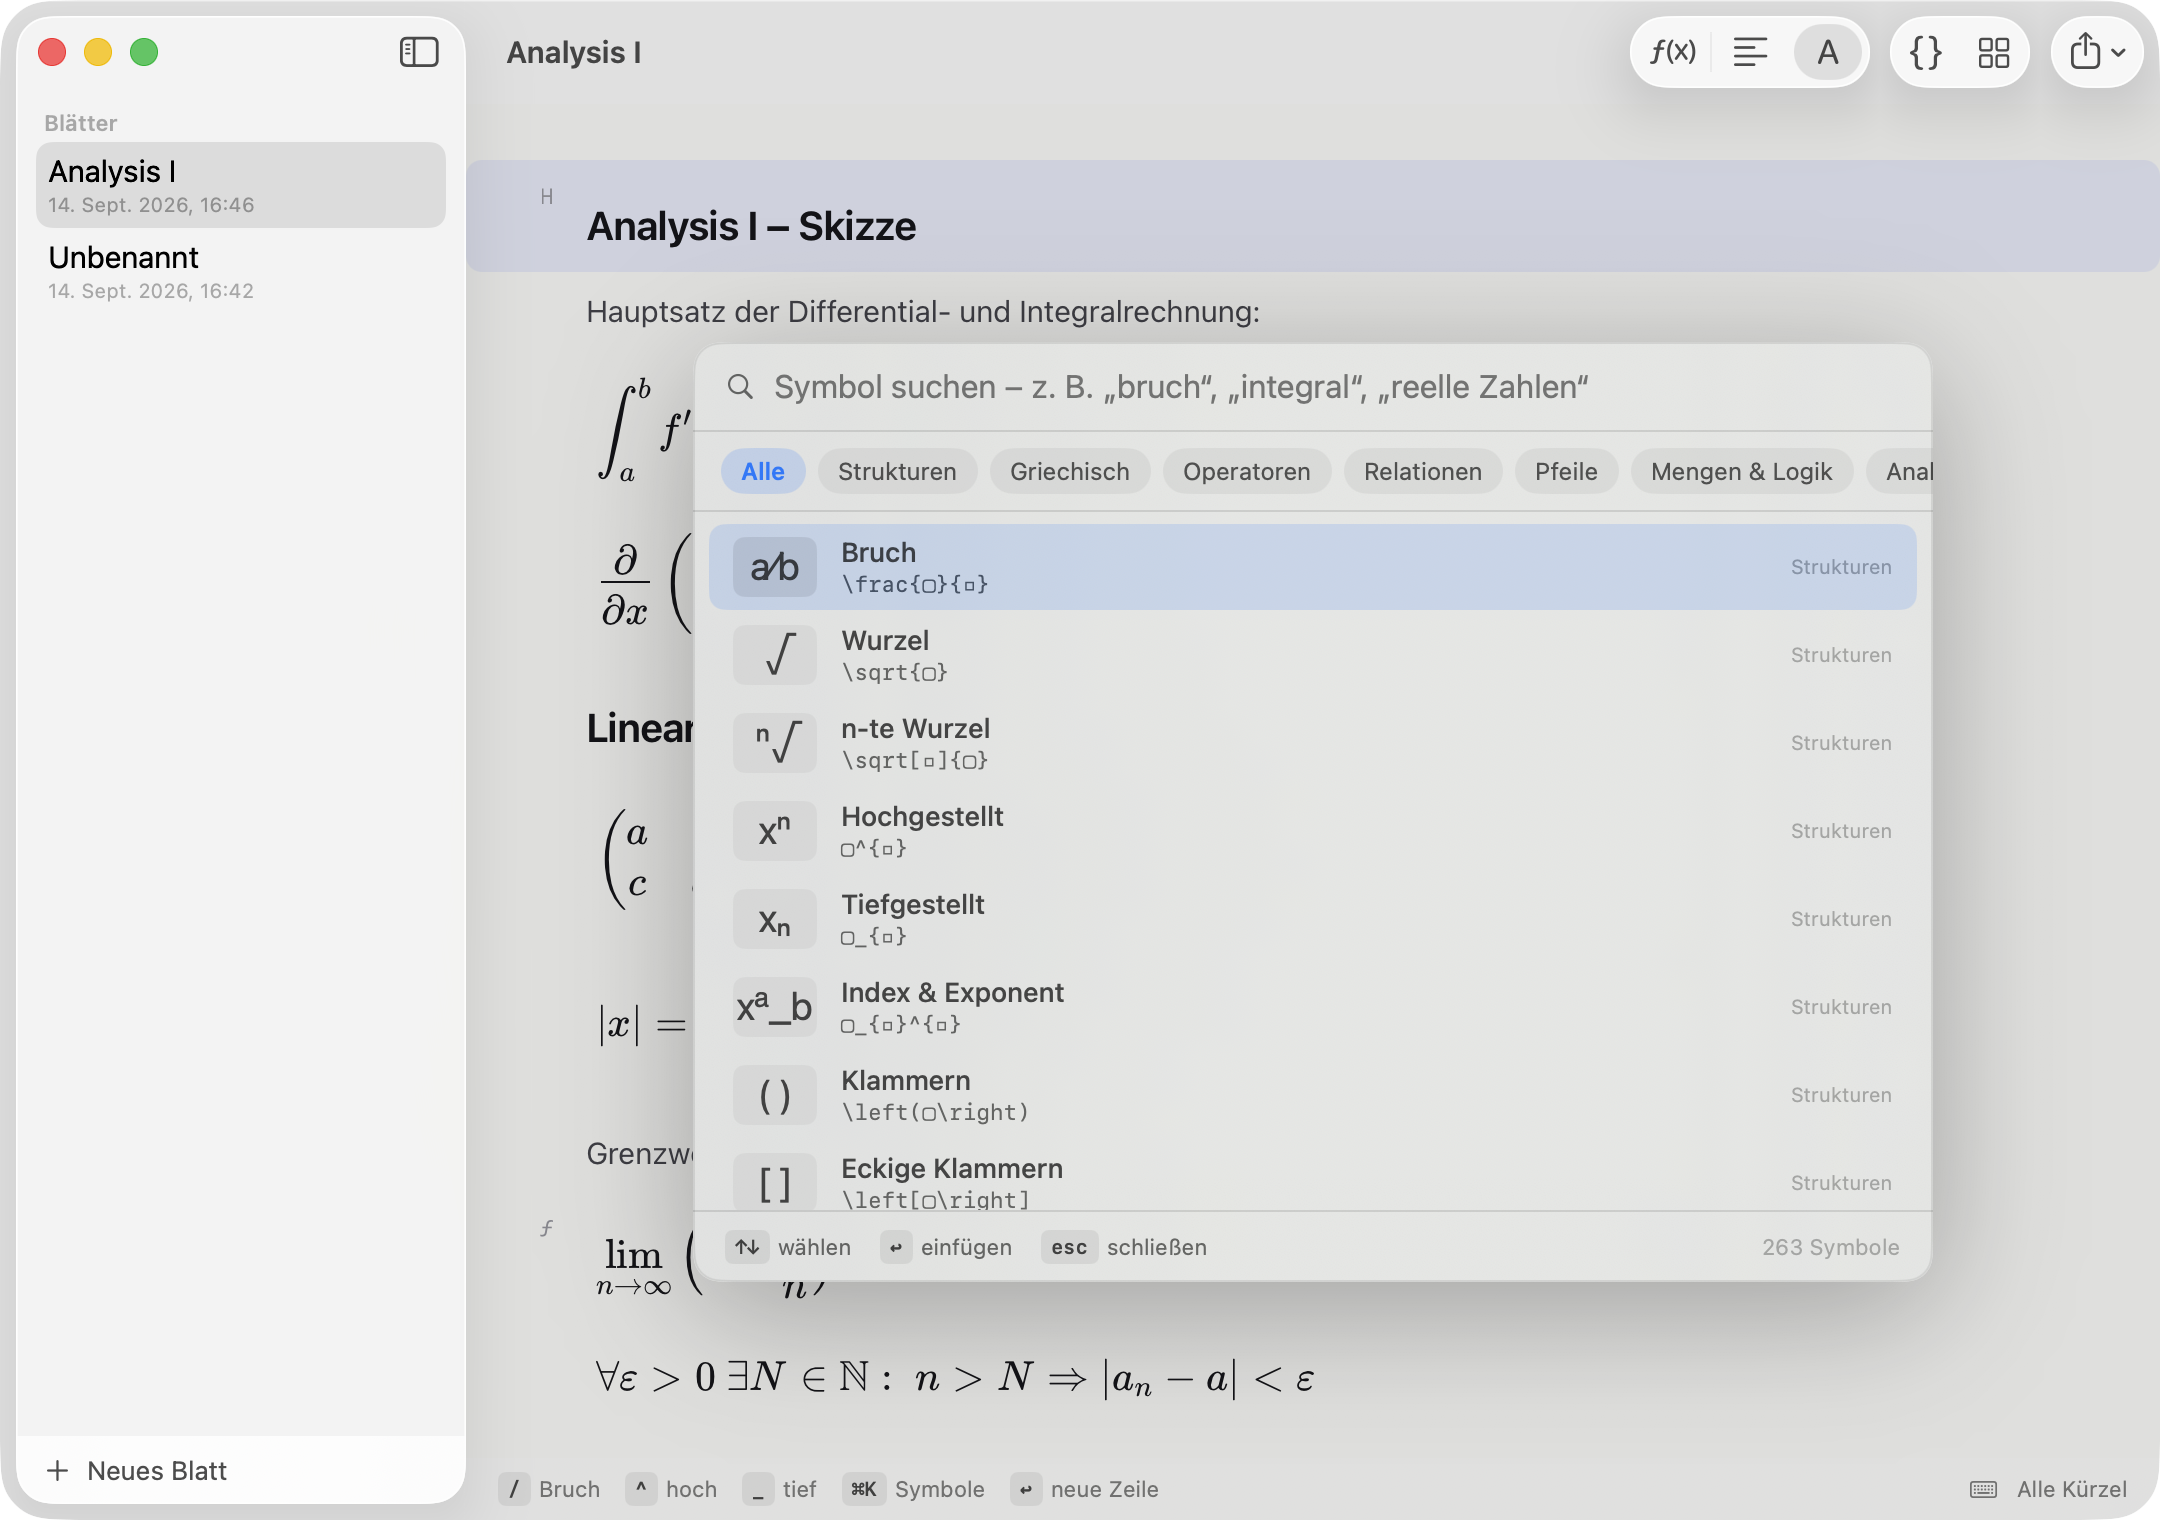
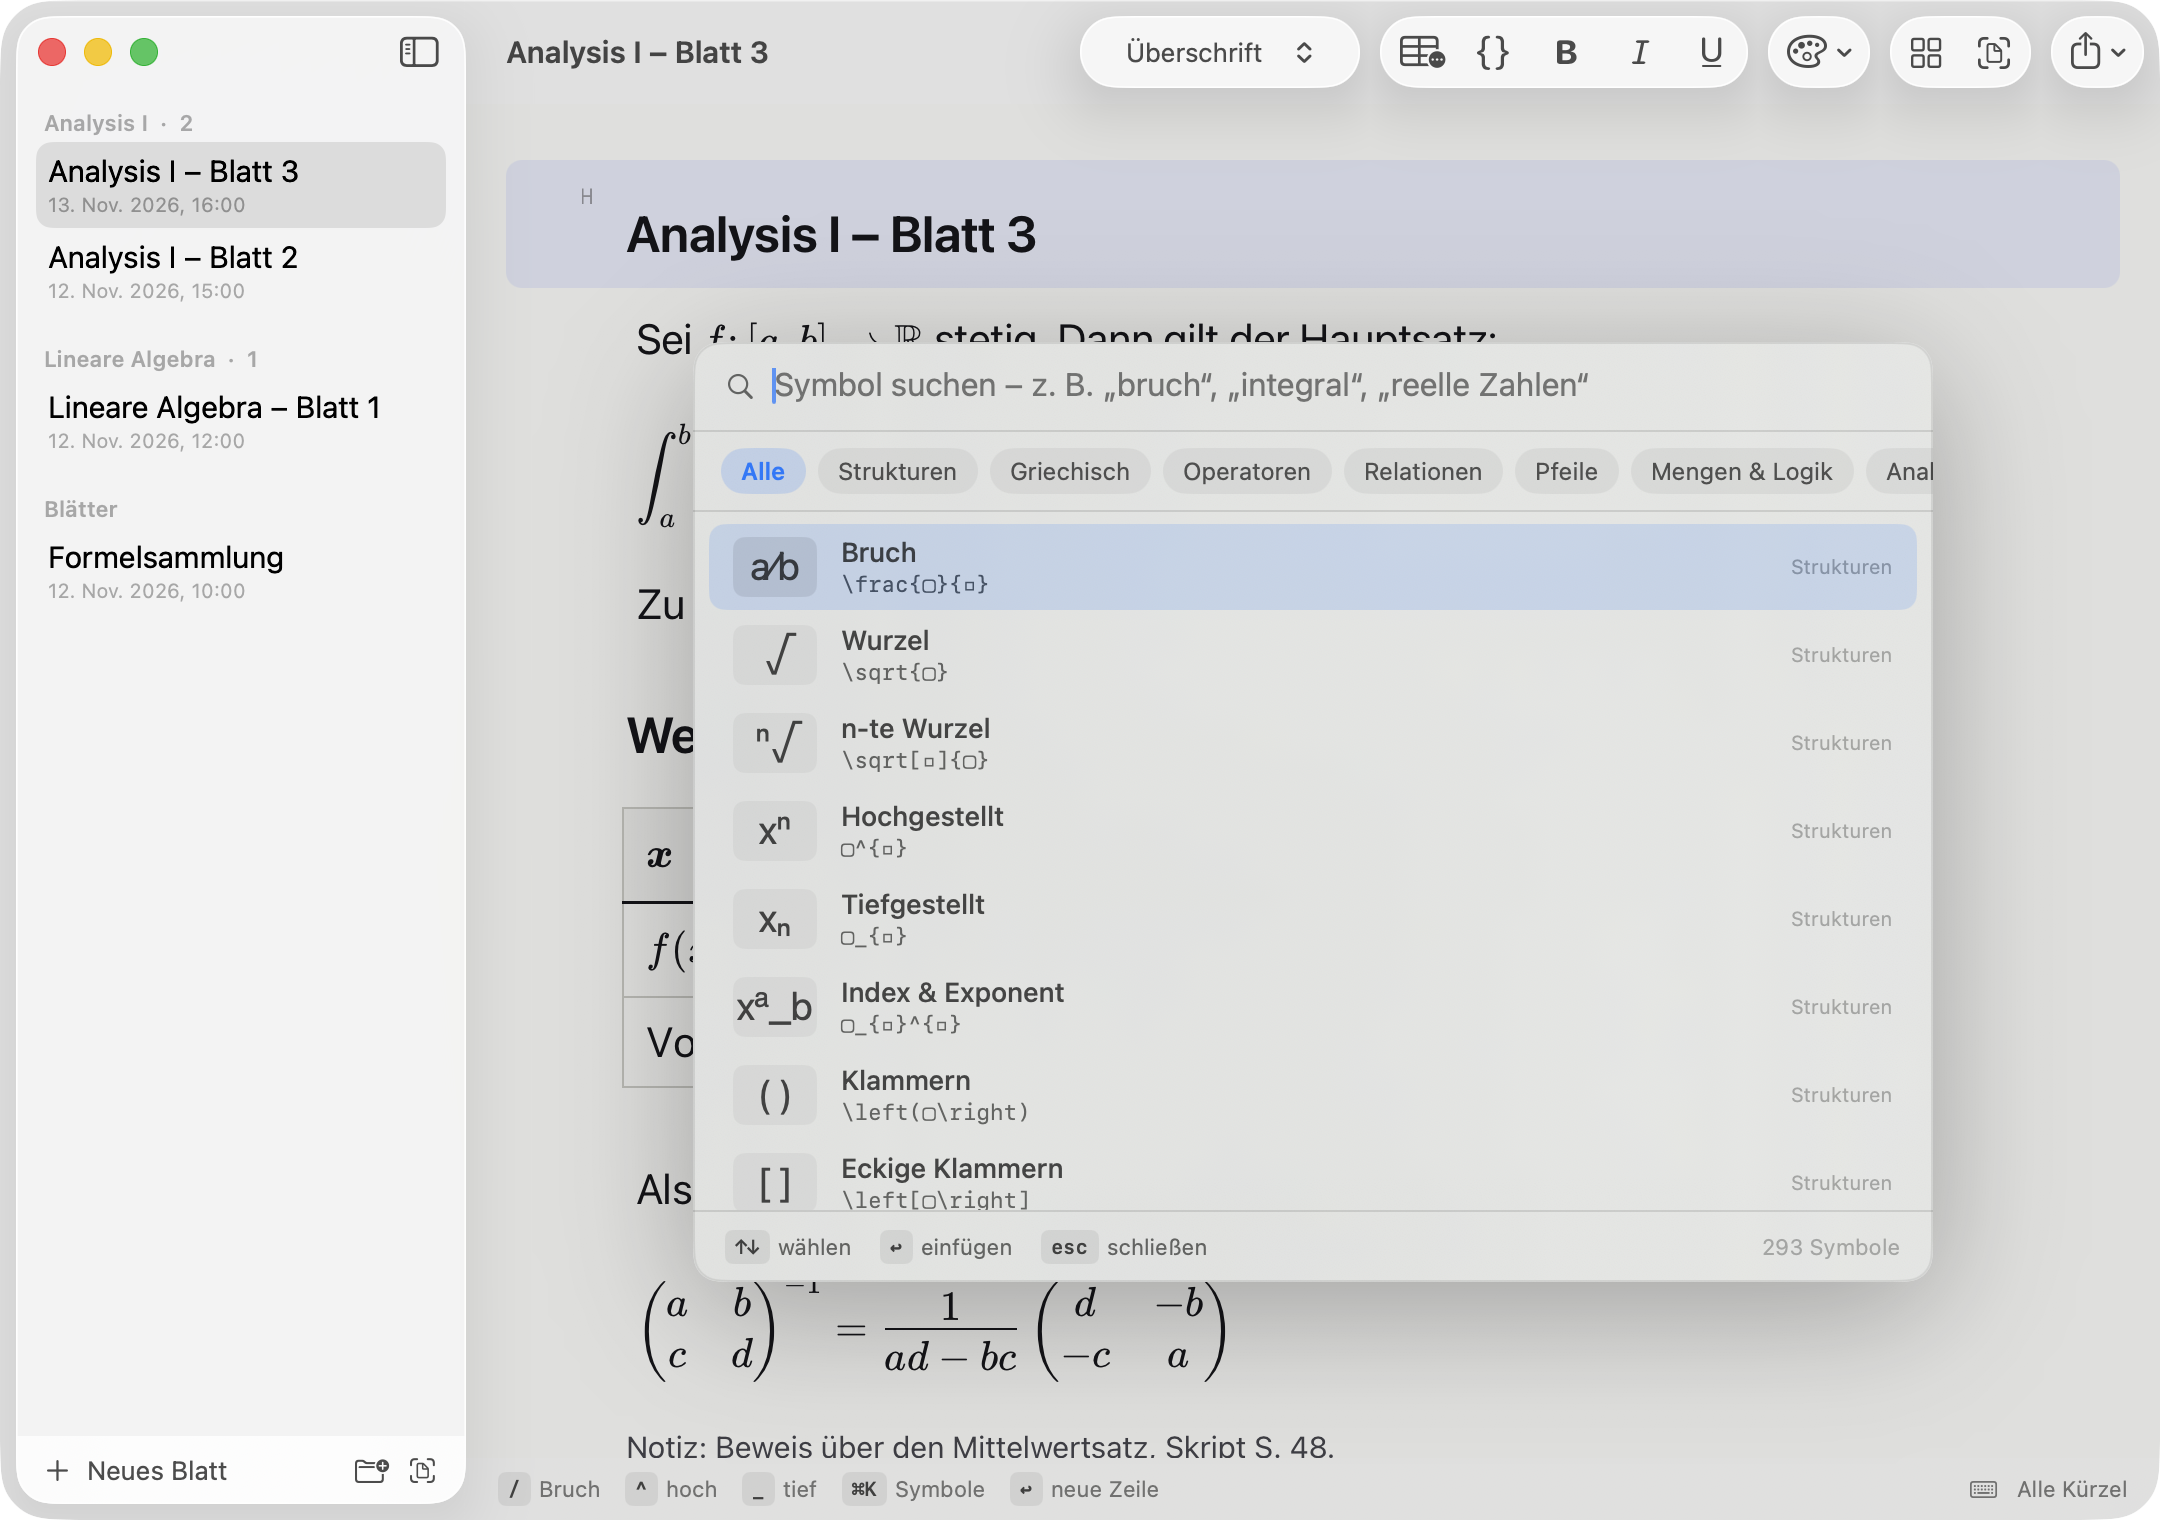
README: neue Screenshots und Stand nachgezogen
Screenshots zeigen jetzt Tabellen, die aktuelle Werkzeugleiste und den
A4-PDF-Export; Zeilenarten auf fünf plus Tabelle korrigiert und die
Module unter Resources/web beschrieben.

diff --git a/README.md b/README.md
@@ -6,6 +6,8 @@ Ein Mac-Notizblock für Mathematik. Du tippst, es steht sofort gesetzt da.
 
 ![Symbolpalette mit ⌘K](docs/palette.png)
 
+![Dasselbe Blatt als PDF auf A4](docs/pdf.png)
+
 ## Die Idee
 
 Formeln schreibt man am schnellsten mit der Tastatur – aber Mathematik ist
@@ -26,7 +28,7 @@ Drei Ebenen, je nachdem wie genau du es wissen willst:
 
 ## Zeilenarten
 
-Ein Blatt ist eine Liste von Zeilen, `↩` macht die nächste. Vier Arten, umschaltbar
+Ein Blatt ist eine Liste von Zeilen, `↩` macht die nächste. Fünf Arten, umschaltbar
 mit `⌥⌘1` bis `⌥⌘5`:
 
 | Art | Wofür |
@@ -36,6 +38,9 @@ mit `⌥⌘1` bis `⌥⌘5`:
 | **Text** | Fließtext in Formelgröße — der Normalfall für Aufgabentexte |
 | **Notiz** | Kleinere Anmerkung am Rand des Gedankengangs |
 | **Überschrift** | Aufgabennummer, Abschnittstitel |
+
+Dazu kommt die **Tabelle** als eigene Zeile – sie wird mit `⇧⌘T` eingefügt statt
+umgestellt, siehe [Tabellen](#tabellen).
 
 Alle Größen hängen an einer Zahl: Text, Mischzeile und Formel sind gleich groß,
 die Überschrift 20 % größer, die Notiz knapp 30 % kleiner. `⌘+` und `⌘−`
@@ -297,6 +302,13 @@ Sources/MathPad/
   Palette/      Symbolkatalog und unscharfe Suche
   Export/       Zwischenablage, PDF (PDFRenderer: A4-Satz), .tex, .md
   Resources/    web/ (der Editor) und vendor/mathlive (MIT)
+
+Sources/MathPad/Resources/web/
+  editor.js     Zeilen, Fokus, Verlauf, Tabellen – die Brücke zu Swift
+  mixed.js      Regeln für „Text + Formel": wann ein Wort zur Formel wird
+  paste.js      Eingefügtes lesen (MathML, LaTeX, Markdown, gerenderter Text)
+  print.js      Das Blatt als Fließtext setzen, für den PDF-Export
+  editor.css    Gestaltung, Hell/Dunkel, Druckbild
 ```
 
 Die Bearbeitungsfläche ist eine lokale Webseite in einer `WKWebView`, die
